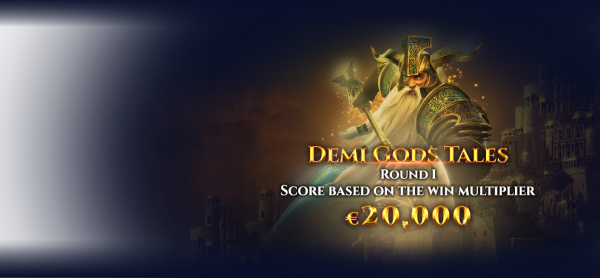
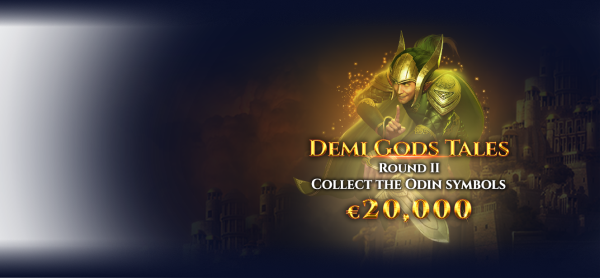
NINE-721 added round II for demi gods

diff --git a/config.js b/config.js
@@ -332,7 +332,7 @@ export const TOURNAMENTS = {
   },
   demigods: {
     url: 'demigods',
-    name: 'Demi God Tales Tournament Round I',
+    name: 'Demi God Tales Tournament Round II',
     translates: 'demigods',
     class: 'DemiGods',
     slug: 'demigods',

diff --git a/components/homepage/NavItem.vue b/components/homepage/NavItem.vue
@@ -79,8 +79,11 @@ export default {
 .Nav {
   &-Item {
     position: relative;
-    white-space: nowrap;
     cursor: pointer;
+
+    @media (min-width: $screen-xs) {
+      white-space: nowrap;
+    }
   }
 
   &-Item--gr {
